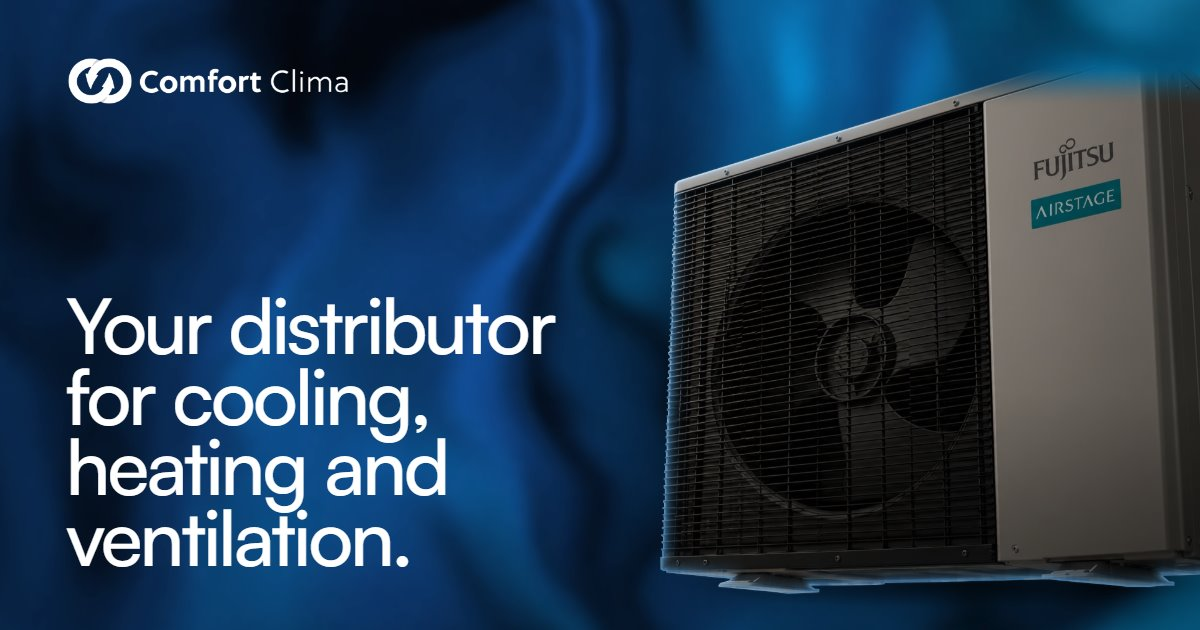
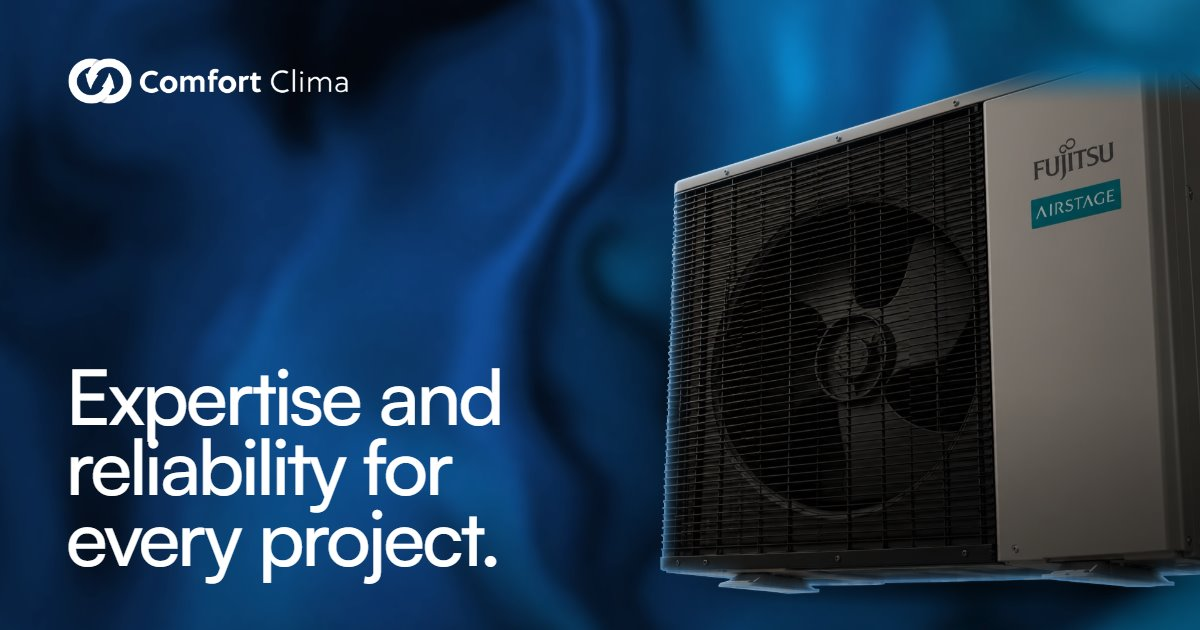
Small changes

Changed region(s): [[0.0308, 0.4524, 0.4625, 0.9349]]

diff --git a/index.html b/index.html
@@ -8,10 +8,10 @@
 <meta name="description" content="Distributor i Fujitsu, Haier, Dogu, Aertesi, O.erre, Tiki dhe Cvsair në Kosovë. Kondicionerë, pompa termike, VRF, chillerë, fan coil, AHU, rikuperatorë, ventilatorë, grila dhe rezervuarë, me shumicë dhe pakicë.">
 <meta name="theme-color" content="#030a18">
 <meta property="og:type" content="website">
-<meta property="og:title" content="Comfort Clima · Distributori juaj për klimë, ngrohje dhe ventilim">
+<meta property="og:title" content="Comfort Clima · Ekspertizë dhe besueshmëri për çdo projekt">
 <meta property="og:description" content="Fujitsu, Haier, Dogu, Aertesi, O.erre, Tiki dhe Cvsair në Kosovë. Me shumicë për instalues dhe projekte, me mbështetje për çdo klient.">
 <meta property="og:url" content="https://comfort-clima.com/">
-<meta property="og:image" content="https://comfort-clima.com/assets/og-image.jpg?v=3">
+<meta property="og:image" content="https://comfort-clima.com/assets/og-image.jpg?v=4">
 <meta property="og:image:width" content="1200">
 <meta property="og:image:height" content="630">
 <meta name="twitter:card" content="summary_large_image">
@@ -174,7 +174,7 @@
     </div>
     <button class="hero-pause" type="button" aria-pressed="false" aria-label="Ndalo animacionin" title="Ndalo animacionin"><svg viewBox="0 0 20 20" aria-hidden="true" focusable="false"><path class="i-pause" d="M7.5 5.5v9M12.5 5.5v9"/><path class="i-play" d="M7.5 5L15 10L7.5 15Z"/></svg></button>
     <div class="wrap hero-copy">
-      <h1 class="h1">Distributori juaj për klimë, ngrohje dhe ventilim.</h1>
+      <h1 class="h1">Ekspertizë dhe besueshmëri për çdo projekt.</h1>
       <div class="hero-foot fade" style="--d:.8s">
         <a class="scroll-badge" href="#rreth-nesh" aria-label="Shko poshtë">
           <svg viewBox="0 0 120 120" aria-hidden="true" focusable="false">

diff --git a/en/index.html b/en/index.html
@@ -9,10 +9,10 @@
 <meta name="theme-color" content="#030a18">
 <meta property="og:type" content="website">
 <meta property="og:locale" content="en_GB">
-<meta property="og:title" content="Comfort Clima · Your distributor for cooling, heating and ventilation">
+<meta property="og:title" content="Comfort Clima · Expertise and reliability for every project">
 <meta property="og:description" content="Fujitsu, Haier, Dogu, Aertesi, O.erre, Tiki and Cvsair in Kosovo. Wholesale for installers and projects, with support for every customer.">
 <meta property="og:url" content="https://comfort-clima.com/en/">
-<meta property="og:image" content="https://comfort-clima.com/assets/og-image-en.jpg?v=3">
+<meta property="og:image" content="https://comfort-clima.com/assets/og-image-en.jpg?v=4">
 <meta property="og:image:width" content="1200">
 <meta property="og:image:height" content="630">
 <meta name="twitter:card" content="summary_large_image">
@@ -176,7 +176,7 @@
     </div>
     <button class="hero-pause" type="button" aria-pressed="false" aria-label="Pause animation" title="Pause animation"><svg viewBox="0 0 20 20" aria-hidden="true" focusable="false"><path class="i-pause" d="M7.5 5.5v9M12.5 5.5v9"/><path class="i-play" d="M7.5 5L15 10L7.5 15Z"/></svg></button>
     <div class="wrap hero-copy">
-      <h1 class="h1">Your distributor for cooling, heating and ventilation.</h1>
+      <h1 class="h1">Expertise and reliability for every project.</h1>
       <div class="hero-foot fade" style="--d:.8s">
         <a class="scroll-badge" href="#rreth-nesh" aria-label="Scroll down">
           <svg viewBox="0 0 120 120" aria-hidden="true" focusable="false">

diff --git a/en/pompa-termike.html b/en/pompa-termike.html
@@ -12,7 +12,7 @@
 <meta property="og:title" content="Monobloc and split heat pumps, Fujitsu and Haier · Comfort Clima">
 <meta property="og:description" content="Fujitsu and Haier monobloc and split heat pumps, from the distributor in Kosovo.">
 <meta property="og:url" content="https://comfort-clima.com/en/pompa-termike.html">
-<meta property="og:image" content="https://comfort-clima.com/assets/og-image-en.jpg?v=3">
+<meta property="og:image" content="https://comfort-clima.com/assets/og-image-en.jpg?v=4">
 <meta property="og:image:width" content="1200">
 <meta property="og:image:height" content="630">
 <meta name="twitter:card" content="summary_large_image">

diff --git a/pompa-termike.html b/pompa-termike.html
@@ -11,7 +11,7 @@
 <meta property="og:title" content="Pompa termike monobloc dhe split, Fujitsu dhe Haier · Comfort Clima">
 <meta property="og:description" content="Pompa termike monobloc dhe split nga Fujitsu dhe Haier, nga distributori në Kosovë.">
 <meta property="og:url" content="https://comfort-clima.com/pompa-termike.html">
-<meta property="og:image" content="https://comfort-clima.com/assets/og-image.jpg?v=3">
+<meta property="og:image" content="https://comfort-clima.com/assets/og-image.jpg?v=4">
 <meta property="og:image:width" content="1200">
 <meta property="og:image:height" content="630">
 <meta name="twitter:card" content="summary_large_image">

diff --git a/en/kondicionere.html b/en/kondicionere.html
@@ -12,7 +12,7 @@
 <meta property="og:title" content="Fujitsu and Haier air conditioners · Comfort Clima">
 <meta property="og:description" content="Fujitsu and Haier split and multi-split air conditioners, from the distributor in Kosovo.">
 <meta property="og:url" content="https://comfort-clima.com/en/kondicionere.html">
-<meta property="og:image" content="https://comfort-clima.com/assets/og-image-en.jpg?v=3">
+<meta property="og:image" content="https://comfort-clima.com/assets/og-image-en.jpg?v=4">
 <meta property="og:image:width" content="1200">
 <meta property="og:image:height" content="630">
 <meta name="twitter:card" content="summary_large_image">

diff --git a/ventilator.html b/ventilator.html
@@ -11,7 +11,7 @@
 <meta property="og:title" content="Ventilatorë Cvsair: jet fan, tym dhe çati · Comfort Clima">
 <meta property="og:description" content="Jet fan, aspiratorë tymi dhe ventilatorë çatie Cvsair, nga distributori në Kosovë.">
 <meta property="og:url" content="https://comfort-clima.com/ventilator.html">
-<meta property="og:image" content="https://comfort-clima.com/assets/og-image.jpg?v=3">
+<meta property="og:image" content="https://comfort-clima.com/assets/og-image.jpg?v=4">
 <meta property="og:image:width" content="1200">
 <meta property="og:image:height" content="630">
 <meta name="twitter:card" content="summary_large_image">

diff --git a/en/oerre.html b/en/oerre.html
@@ -12,7 +12,7 @@
 <meta property="og:title" content="O.erre · GHOST-U single-room heat recovery · Comfort Clima">
 <meta property="og:description" content="The O.erre GHOST-U single-room heat recovery unit, from the distributor in Kosovo.">
 <meta property="og:url" content="https://comfort-clima.com/en/oerre.html">
-<meta property="og:image" content="https://comfort-clima.com/assets/og-image-en.jpg?v=3">
+<meta property="og:image" content="https://comfort-clima.com/assets/og-image-en.jpg?v=4">
 <meta property="og:image:width" content="1200">
 <meta property="og:image:height" content="630">
 <meta name="twitter:card" content="summary_large_image">

diff --git a/en/chillers.html b/en/chillers.html
@@ -12,7 +12,7 @@
 <meta property="og:title" content="Haier chillers and commercial heat pumps · Comfort Clima">
 <meta property="og:description" content="Haier modular chillers and commercial heat pumps, from the distributor in Kosovo.">
 <meta property="og:url" content="https://comfort-clima.com/en/chillers.html">
-<meta property="og:image" content="https://comfort-clima.com/assets/og-image-en.jpg?v=3">
+<meta property="og:image" content="https://comfort-clima.com/assets/og-image-en.jpg?v=4">
 <meta property="og:image:width" content="1200">
 <meta property="og:image:height" content="630">
 <meta name="twitter:card" content="summary_large_image">

diff --git a/chillers.html b/chillers.html
@@ -11,7 +11,7 @@
 <meta property="og:title" content="Chillerë dhe pompa termike komerciale Haier · Comfort Clima">
 <meta property="og:description" content="Chillerë modularë dhe pompa termike komerciale Haier, nga distributori në Kosovë.">
 <meta property="og:url" content="https://comfort-clima.com/chillers.html">
-<meta property="og:image" content="https://comfort-clima.com/assets/og-image.jpg?v=3">
+<meta property="og:image" content="https://comfort-clima.com/assets/og-image.jpg?v=4">
 <meta property="og:image:width" content="1200">
 <meta property="og:image:height" content="630">
 <meta name="twitter:card" content="summary_large_image">

diff --git a/en/fan-coil.html b/en/fan-coil.html
@@ -12,7 +12,7 @@
 <meta property="og:title" content="Aertesi fan coils: wall, ducted and cassette · Comfort Clima">
 <meta property="og:description" content="Aertesi wall, ducted and cassette fan coils, from the distributor in Kosovo.">
 <meta property="og:url" content="https://comfort-clima.com/en/fan-coil.html">
-<meta property="og:image" content="https://comfort-clima.com/assets/og-image-en.jpg?v=3">
+<meta property="og:image" content="https://comfort-clima.com/assets/og-image-en.jpg?v=4">
 <meta property="og:image:width" content="1200">
 <meta property="og:image:height" content="630">
 <meta name="twitter:card" content="summary_large_image">

diff --git a/en/rikuperator.html b/en/rikuperator.html
@@ -12,7 +12,7 @@
 <meta property="og:title" content="Dogu and O.erre heat recovery units · Comfort Clima">
 <meta property="og:description" content="Dogu heat recovery units and the O.erre GHOST-U, from the distributor in Kosovo.">
 <meta property="og:url" content="https://comfort-clima.com/en/rikuperator.html">
-<meta property="og:image" content="https://comfort-clima.com/assets/og-image-en.jpg?v=3">
+<meta property="og:image" content="https://comfort-clima.com/assets/og-image-en.jpg?v=4">
 <meta property="og:image:width" content="1200">
 <meta property="og:image:height" content="630">
 <meta name="twitter:card" content="summary_large_image">

diff --git a/en/ventilator.html b/en/ventilator.html
@@ -12,7 +12,7 @@
 <meta property="og:title" content="Cvsair fans: jet, smoke and roof · Comfort Clima">
 <meta property="og:description" content="Cvsair jet fans, smoke exhaust fans and roof fans, from the distributor in Kosovo.">
 <meta property="og:url" content="https://comfort-clima.com/en/ventilator.html">
-<meta property="og:image" content="https://comfort-clima.com/assets/og-image-en.jpg?v=3">
+<meta property="og:image" content="https://comfort-clima.com/assets/og-image-en.jpg?v=4">
 <meta property="og:image:width" content="1200">
 <meta property="og:image:height" content="630">
 <meta name="twitter:card" content="summary_large_image">
